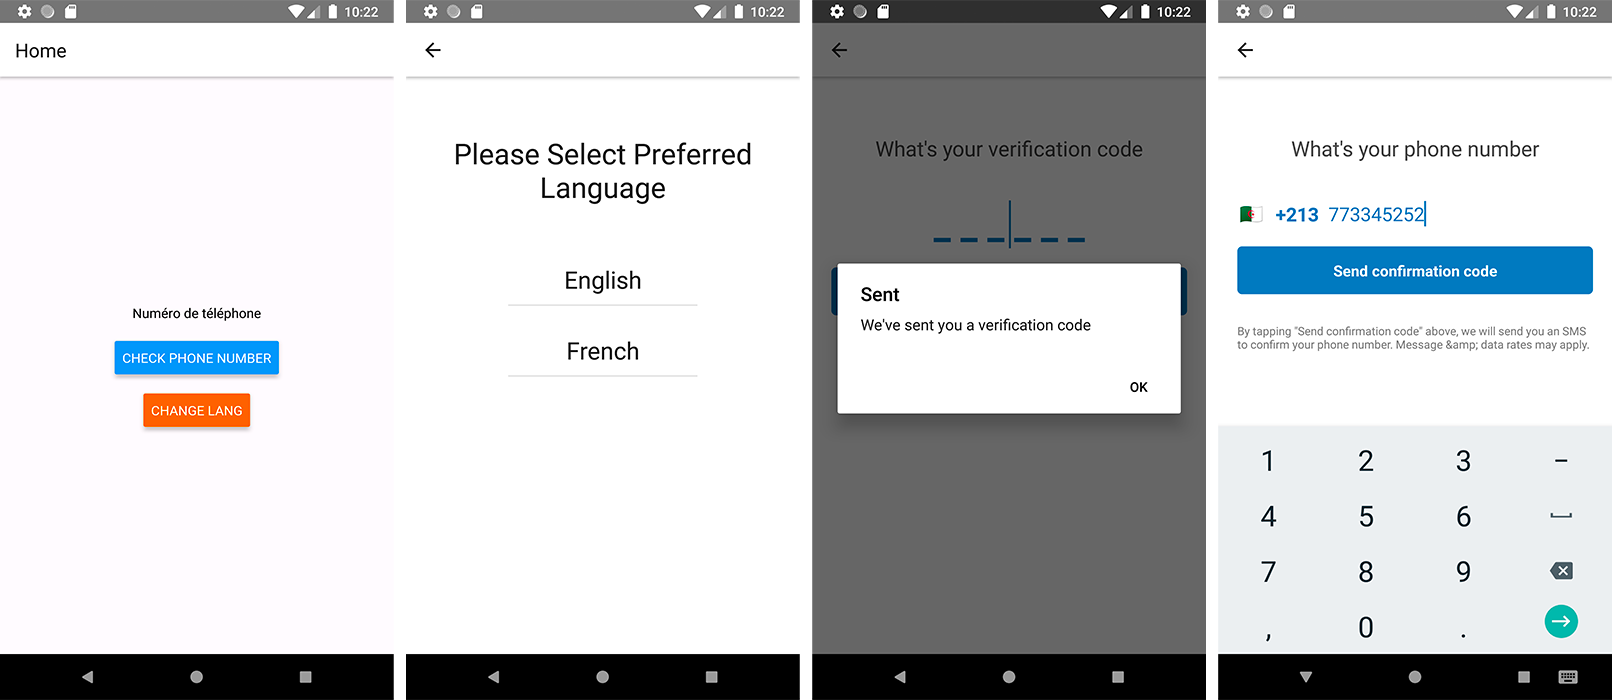
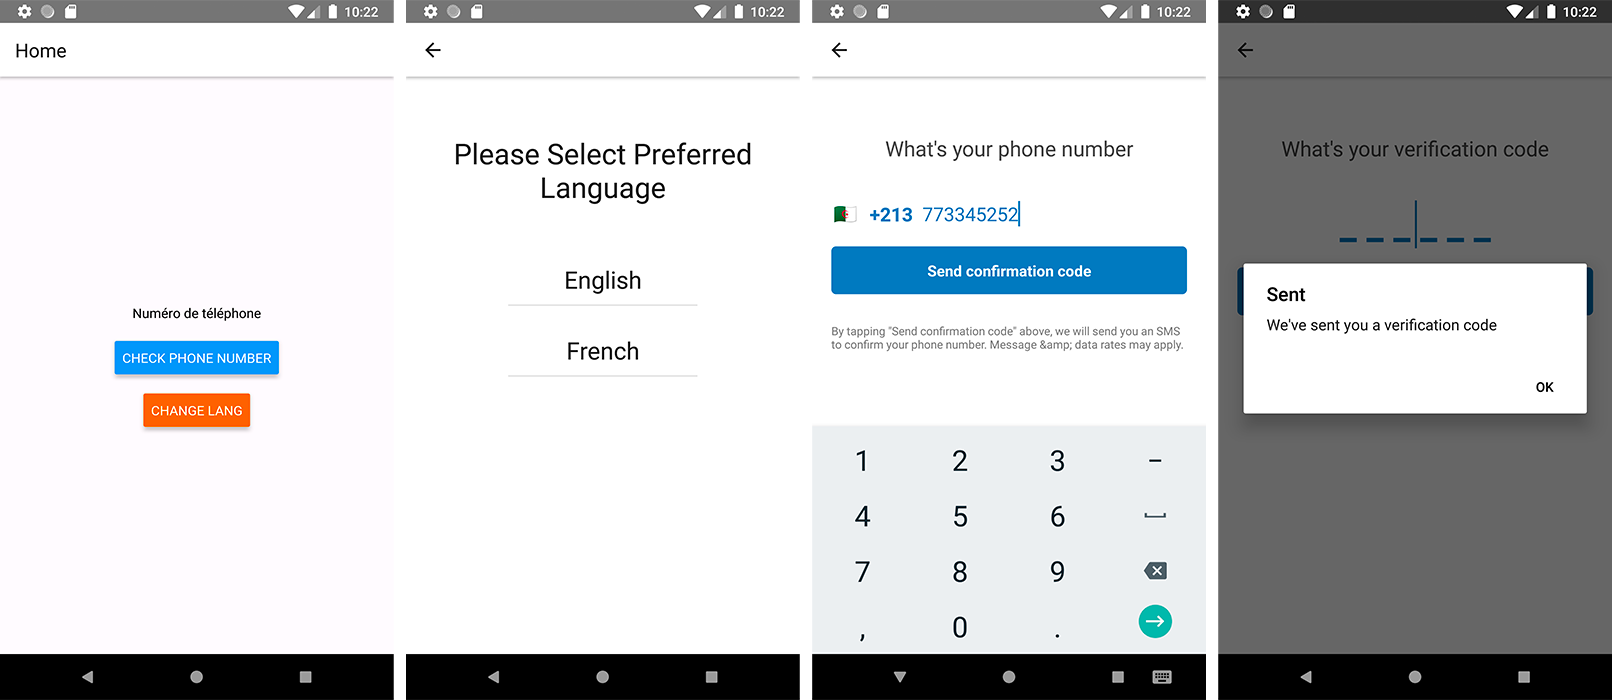
Multi language - fix dynamic header issue

diff --git a/src/localization/strings.js b/src/localization/strings.js
@@ -3,11 +3,13 @@ import LocalizedStrings from 'react-native-localization';
 
 const Strings = new LocalizedStrings({
     en: {
-        //Header
-        Home: 'Home',
+        // Header
+        HomeHeader: 'Home',
+        LanguageSelectionHeader: 'Select language',
+        PhoneVerificationHeader: 'Phone verification',
 
-        WhatIsYourVerificationCode :"What's your verification code",
-        WhatIsYourPhoneNumber :"What's your phone number",
+        WhatIsYourVerificationCode: 'What\'s your verification code',
+        WhatIsYourPhoneNumber: 'What\'s your phone number',
 
         VerificationCode: 'Verification code',
         PhoneNumber: 'Phone number',
@@ -25,14 +27,16 @@ const Strings = new LocalizedStrings({
         wrongNumber: 'Enter the wrong number or need a new code?',
 
         //Alerts
-        Success:"Success"
+        Success: 'Success',
     },
     fr: {
-        //Header
-        Home: 'Accueil',
+        // Header
+        HomeHeader: 'Accueil',
+        LanguageSelectionHeader: 'Choisir la langue',
+        PhoneVerificationHeader: 'Vérification de téléphone',
 
-        WhatIsYourVerificationCode :"Quel est votre code de vérification",
-        WhatIsYourPhoneNumber :"Quel est votre numéro de téléphone",
+        WhatIsYourVerificationCode: 'Quel est votre code de vérification',
+        WhatIsYourPhoneNumber: 'Quel est votre numéro de téléphone',
 
         VerificationCode: 'Code de vérification',
         PhoneNumber: 'Numéro de téléphone',
@@ -50,7 +54,7 @@ const Strings = new LocalizedStrings({
         wrongNumber: 'Saisissez le mauvais numéro ou avez besoin d\'un nouveau code?',
 
         //Alerts
-        Success:"Succès"
+        Success: 'Succès',
     },
     ar: {},
 });

diff --git a/App.js b/App.js
@@ -1,14 +1,15 @@
 import {createAppContainer} from 'react-navigation';
 import {createStackNavigator} from 'react-navigation-stack';
 
+import Strings from './src/localization/strings';
 import HomeScreen from './src/screens/HomeScreen';
 import PhoneVerificationScreen from './src/screens/PhoneVerificationScreen';
 import LanguageSelectionScreen from './src/screens/LanguageSelectionScreen';
 
 const MainNavigator = createStackNavigator({
-    Home: {screen: HomeScreen},
-    CheckPhone: {screen: PhoneVerificationScreen},
-    LanguageSelection: {screen: LanguageSelectionScreen},
+    Home: {screen: HomeScreen, navigationOptions: {title: Strings.HomeHeader}},
+    CheckPhone: {screen: PhoneVerificationScreen, navigationOptions: {title: Strings.PhoneVerificationHeader}},
+    LanguageSelection: {screen: LanguageSelectionScreen, navigationOptions: {title: Strings.LanguageSelectionHeader}},
 });
 
 const App = createAppContainer(MainNavigator);

diff --git a/src/screens/HomeScreen.js b/src/screens/HomeScreen.js
@@ -1,4 +1,4 @@
-import React, {Component} from 'react';
+import React from 'react';
 
 import {
     StyleSheet,
@@ -10,9 +10,11 @@ import {
 import Strings from '../localization/strings';
 
 class HomeScreen extends React.Component {
-
-    static navigationOptions = {
-        title: Strings.Home,
+    
+    static navigationOptions = ({navigation}) => {
+        return {
+            headerTitle: Strings.HomeHeader,
+        };
     };
 
     constructor() {
@@ -50,7 +52,7 @@ class HomeScreen extends React.Component {
 const styles = StyleSheet.create({
     container: {
         flex: 1,
-        backgroundColor: '#fffbff',
+        backgroundColor: '#ECEFF1',
         flexDirection: 'column',
         justifyContent: 'center',
         alignItems: 'center',

diff --git a/src/screens/LanguageSelectionScreen.js b/src/screens/LanguageSelectionScreen.js
@@ -4,6 +4,12 @@ import Strings from '../localization/strings';
 
 class LanguageSelect extends React.Component {
 
+    static navigationOptions = ({navigation}) => {
+        return {
+            headerTitle: Strings.LanguageSelectionHeader,
+        };
+    };
+
     constructor(props) {
         super(props);
         global.lang = [
@@ -50,7 +56,7 @@ class LanguageSelect extends React.Component {
 const styles = StyleSheet.create({
     MainContainer: {
         flex: 1,
-        backgroundColor: 'white',
+        backgroundColor: '#ECEFF1',
         alignItems: 'center',
     },
     textHeading: {

diff --git a/src/screens/PhoneVerificationScreen.js b/src/screens/PhoneVerificationScreen.js
@@ -37,6 +37,12 @@ const brandColor = Colors.PRIMARY;
 
 export default class PhoneVerification extends React.Component {
 
+    static navigationOptions = ({navigation}) => {
+        return {
+            headerTitle: Strings.PhoneVerificationHeader,
+        };
+    };
+
     constructor(props) {
         super(props);
         this.state = {
@@ -335,6 +341,7 @@ const styles = StyleSheet.create({
     },
     container: {
         flex: 1,
+        backgroundColor: '#ECEFF1',
     },
     header: {
         textAlign: 'center',
